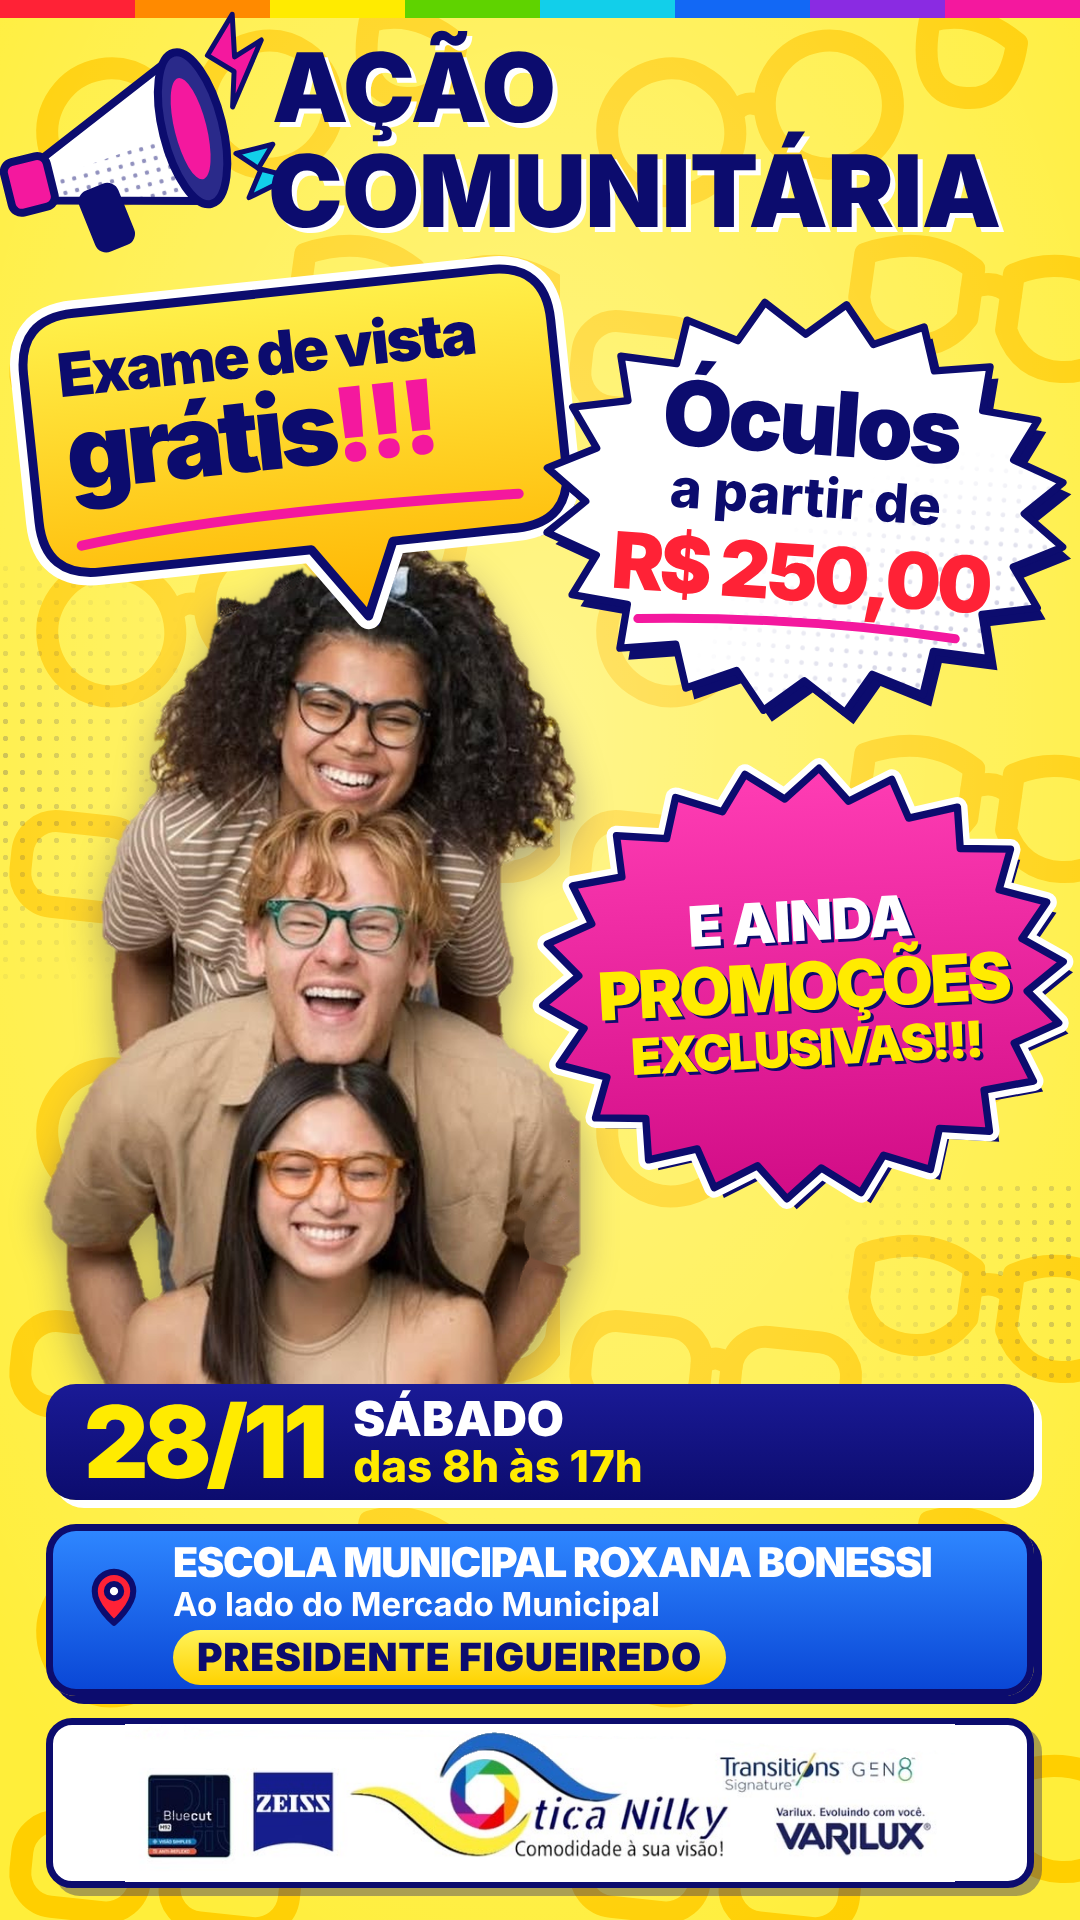
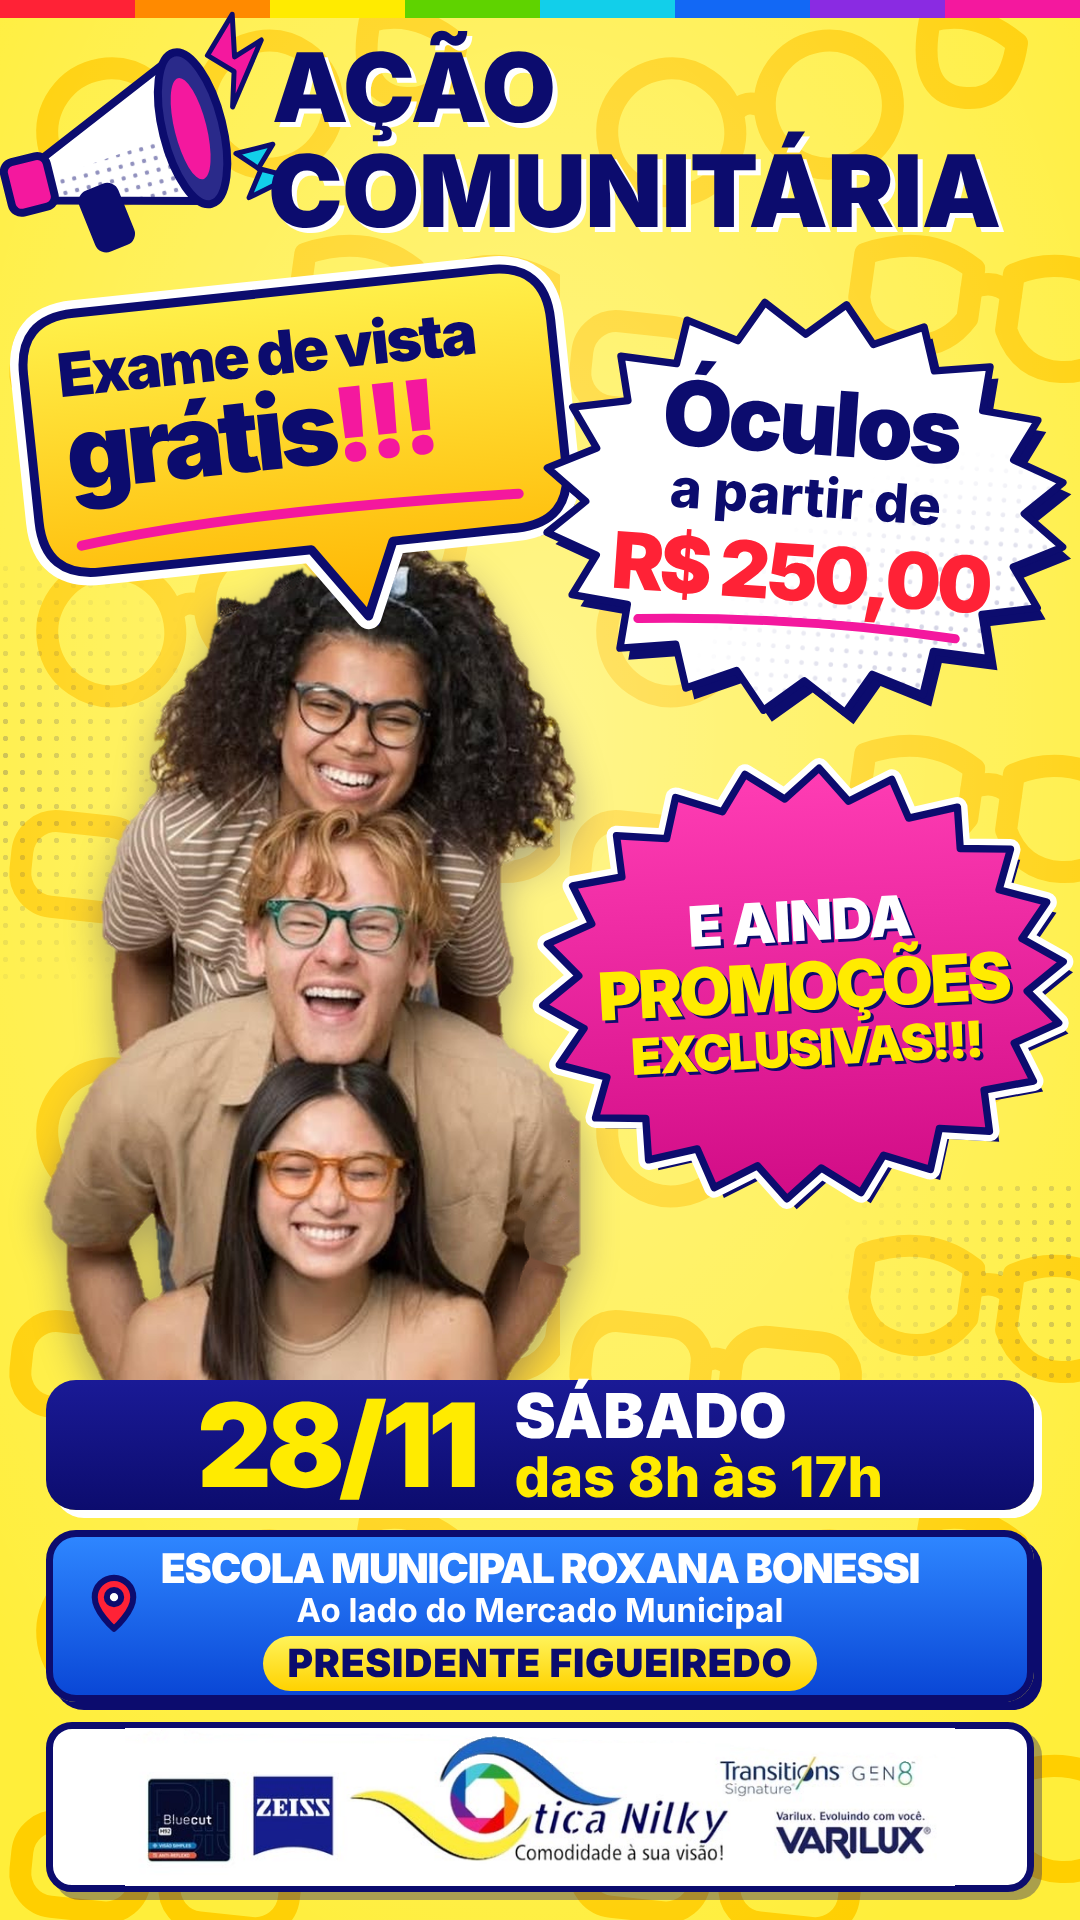
Centraliza e amplia a data e o local na arte da Ótica Nilky
Claude-Session: https://claude.ai/code/session_01N9ipd4AdMRoNT7eWaQQ4tb

Changed region(s): [[0.0306, 0.7188, 0.9778, 1.0]]

diff --git a/otica-nilky/vivido-livre.html b/otica-nilky/vivido-livre.html
@@ -31,18 +31,18 @@ body{font-family:"Inter",sans-serif;color:var(--navy);background:var(--bg);posit
 .pm .a{font-weight:900;font-size:56px;line-height:1;letter-spacing:-.02em}
 .pm .b{font-weight:900;font-size:66px;line-height:1.02;letter-spacing:-.045em;text-transform:uppercase;color:var(--y);margin-top:4px}
 .pm .c{font-weight:900;font-size:50px;line-height:1.02;letter-spacing:-.045em;text-transform:uppercase;color:var(--y);margin-top:2px}
-.date{position:absolute;left:46px;top:1384px;width:988px;height:116px;background:linear-gradient(180deg,#1A1A96,#0C0C6E);border-radius:30px;display:flex;align-items:center;gap:30px;padding:0 38px;box-shadow:8px 8px 0 #fff}
-.date .d{font-weight:900;font-size:100px;letter-spacing:-.05em;color:var(--y);line-height:1}
+.date{position:absolute;left:46px;top:1380px;width:988px;height:130px;background:linear-gradient(180deg,#1A1A96,#0C0C6E);border-radius:30px;display:flex;align-items:center;justify-content:center;gap:40px;padding:0 38px;box-shadow:8px 8px 0 #fff}
+.date .d{font-weight:900;font-size:116px;letter-spacing:-.05em;color:var(--y);line-height:1}
 .date .d small{font-size:42px;letter-spacing:-.02em;color:var(--w);margin-left:4px}
 .date .t{display:flex;flex-direction:column}
-.date .t b{font-weight:900;font-size:48px;color:var(--w);line-height:1.04}
-.date .t span{font-weight:800;font-size:44px;color:var(--y);line-height:1.04}
-.loc{position:absolute;left:46px;top:1524px;width:988px;height:172px;background:linear-gradient(180deg,#2E86FF,#0A47D6);border:7px solid var(--navy);border-radius:30px;padding:10px 30px 0 120px;display:flex;flex-direction:column;align-items:flex-start;box-shadow:8px 8px 0 var(--navy);color:var(--w)}
+.date .t b{font-weight:900;font-size:62px;color:var(--w);line-height:1.04}
+.date .t span{font-weight:800;font-size:56px;color:var(--y);line-height:1.04}
+.loc{position:absolute;left:46px;top:1530px;width:988px;height:172px;background:linear-gradient(180deg,#2E86FF,#0A47D6);border:7px solid var(--navy);border-radius:30px;padding:10px 30px 0 30px;display:flex;flex-direction:column;align-items:center;text-align:center;box-shadow:8px 8px 0 var(--navy);color:var(--w)}
 .loc .pin{position:absolute;left:28px;top:34px;width:66px;height:66px}
 .loc .a{font-weight:900;font-size:41px;line-height:1.05;letter-spacing:-.03em;text-transform:uppercase;white-space:nowrap}
 .loc .b{font-weight:700;font-size:33px;margin-top:0}
 .loc .c{margin-top:6px;background:linear-gradient(180deg,#FFF35A,#FFD200);color:var(--navy);font-weight:900;font-size:39px;letter-spacing:.02em;padding:3px 24px 5px;border-radius:999px;text-transform:uppercase}
-.logos{position:absolute;left:46px;top:1718px;width:988px;height:170px;background:var(--w);border:7px solid var(--navy);border-radius:26px;display:flex;align-items:center;justify-content:center;box-shadow:8px 8px 0 rgba(12,12,110,.35)}
+.logos{position:absolute;left:46px;top:1722px;width:988px;height:170px;background:var(--w);border:7px solid var(--navy);border-radius:26px;display:flex;align-items:center;justify-content:center;box-shadow:8px 8px 0 rgba(12,12,110,.35)}
 .logos img{width:830px;display:block}
 </style></head><body>
 <svg class="bgsvg" viewBox="0 0 1080 1920" aria-hidden="true">
